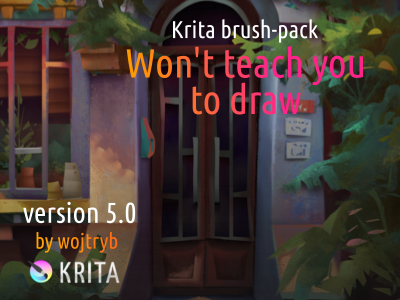
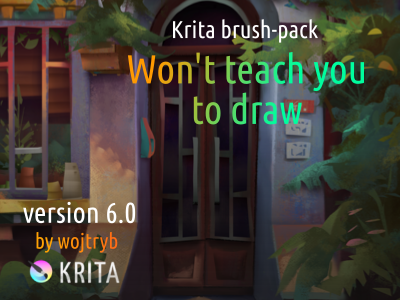
Update the Wojtryb/bundle and plugin in Resources page

Changed region(s): [[0.3, 0.15, 0.93, 0.42], [0.27, 0.66, 0.3, 0.75]]

diff --git a/resources_page.rst b/resources_page.rst
@@ -78,7 +78,7 @@ Brush Packs
                IForce73
 
           - .. figure:: /images/resource_packs/Resources-wojtrybBrushes.png
-               :target: https://www.dropbox.com/s/i1rt7f0qc77nc4m/wont_teach_you_to_draw_brushpack_v5.0.zip?dl=1
+               :target: https://www.dropbox.com/s/nconrhjb6ltai8f/wont_teach_you_to_draw_brushpack_v6.0.zip?dl=1
 
                wojtryb
 
@@ -365,6 +365,13 @@ Spine File Format Export
     Inspired by the official Photoshop Plugin, it works nearly the same. Click on :menuselection:`Tools --> Scripts --> Export to Spine`, select a folder and all your images will be exported into it as well as :file:`spine.json`.
 
     Available here: https://github.com/chartinger/krita-unofficial-spine-export
+
+Subwindow Organizer
+------------------------
+
+    Helps with handling multiple documents in subwindow mode. Introduces responsive fullscreen with other subwindows opened, dynamic snapping of subwindows to canvas borders, drag and drop switching between subwindows, and more.
+
+    Available here: https://github.com/wojtryb/kritaSubwindowOrganizer 
 
 Tablet Controls Docker
 ----------------------
